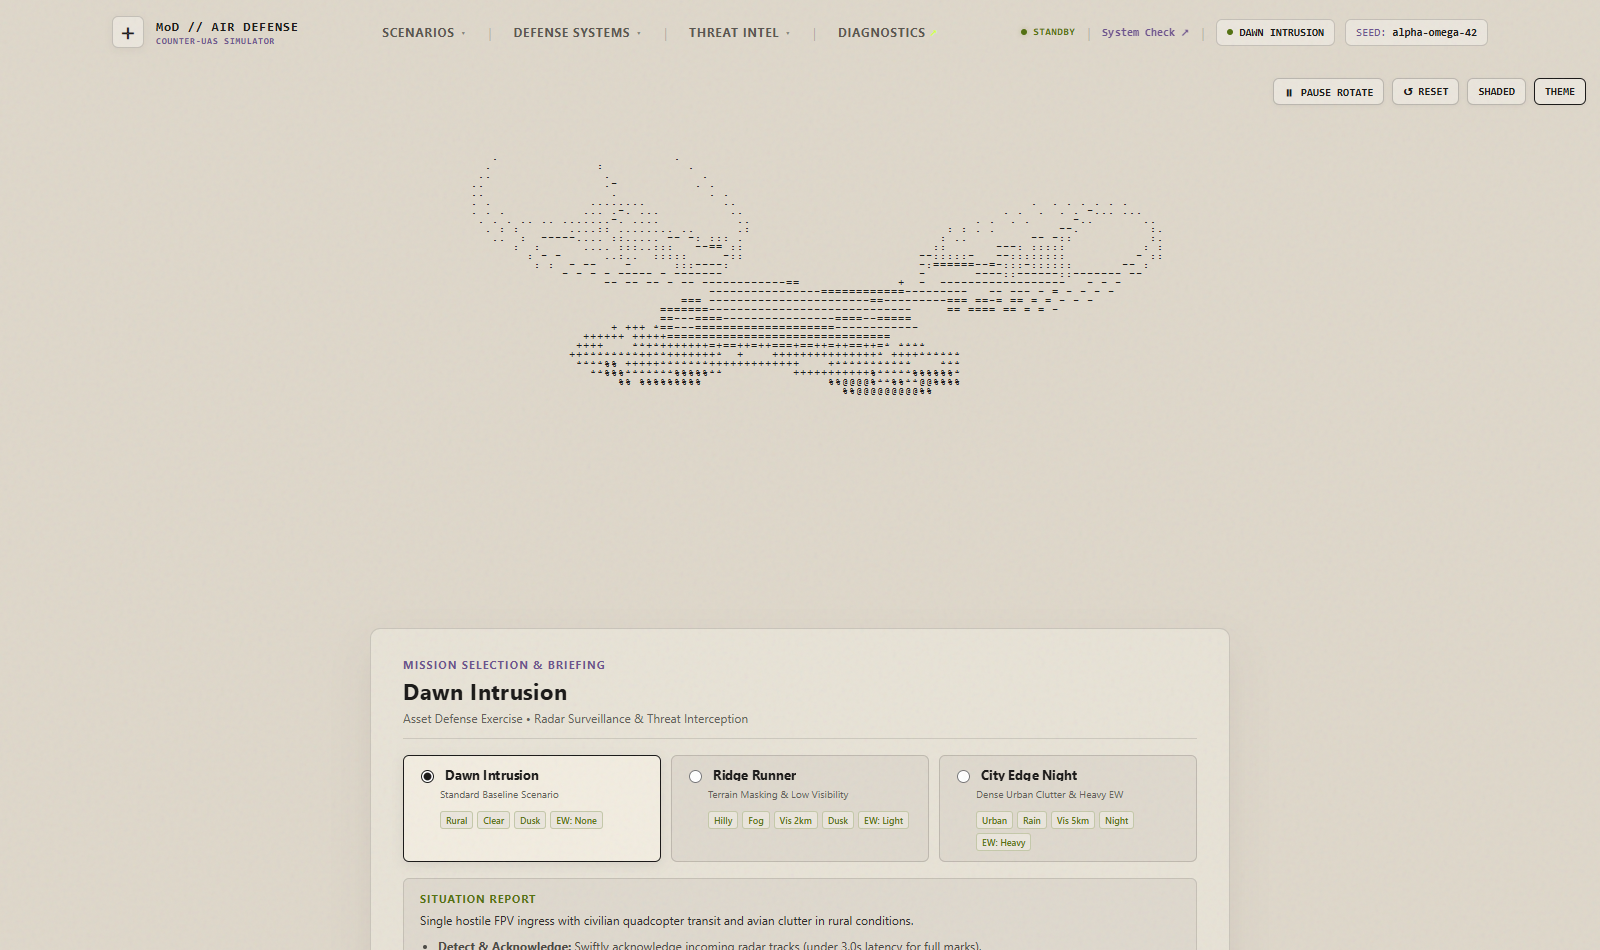
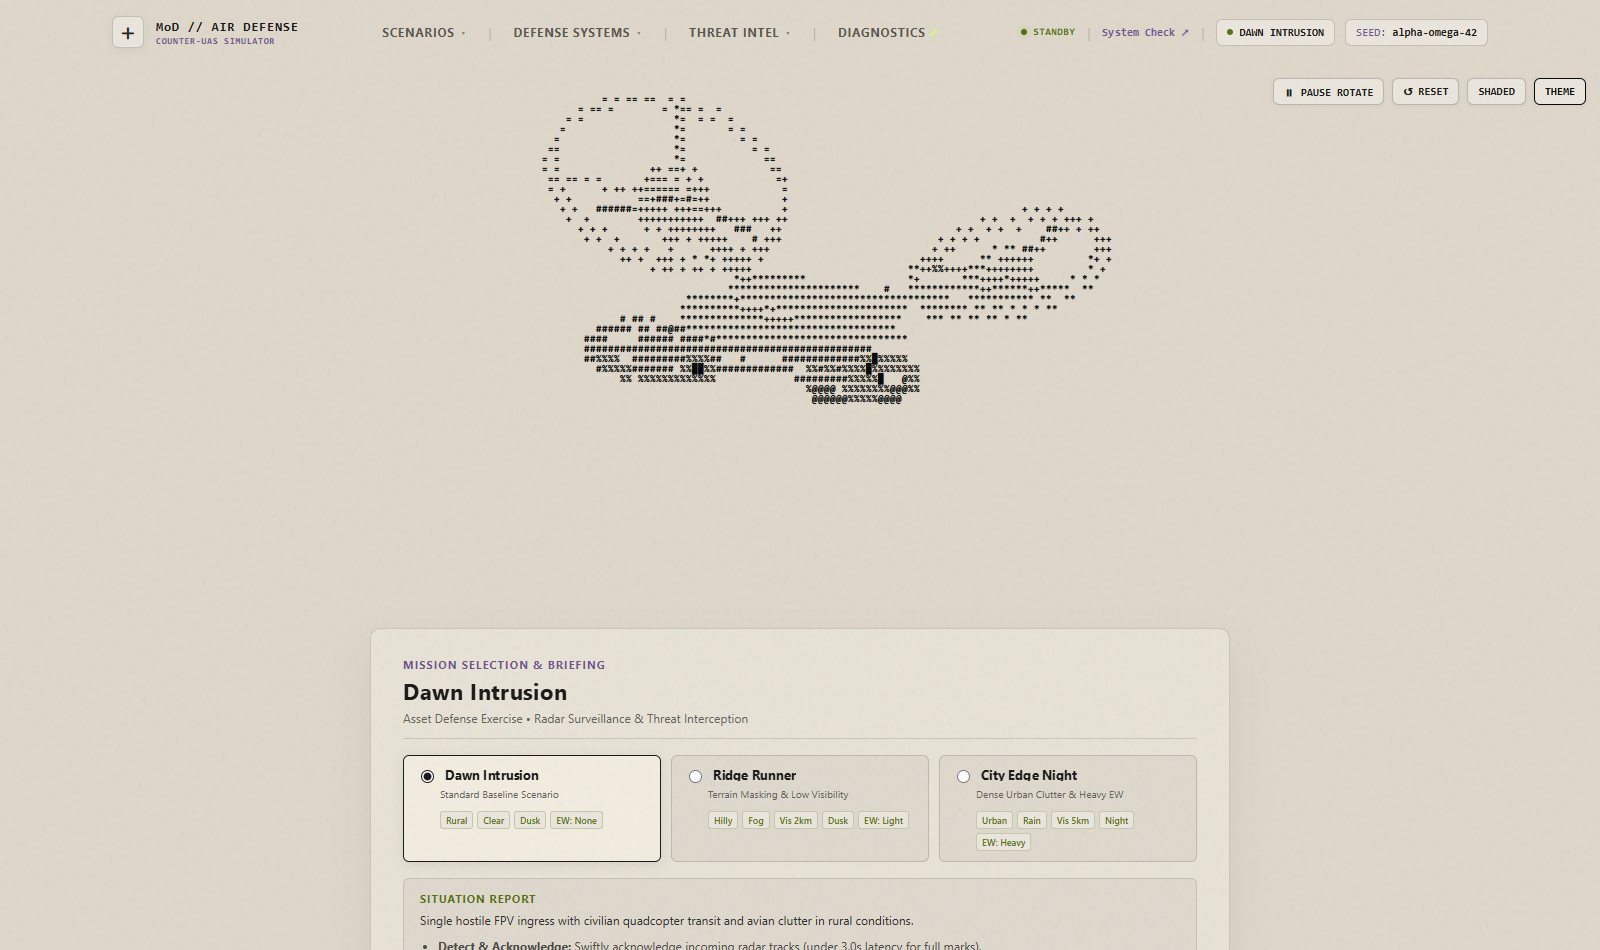
fix(ui): increase drone contrast with deep obsidian ink, high-density ascii ramp, and bold monospace font

Changed region(s): [[0.3438, 0.1526, 0.6875, 0.4274], [0.4062, 0.0916, 0.4375, 0.1221]]

diff --git a/src/app/components/DroneAsciiSimulation.tsx b/src/app/components/DroneAsciiSimulation.tsx
@@ -19,7 +19,7 @@ interface Point3D {
   kind?: 'body' | 'arm' | 'motor' | 'propeller' | 'camera' | 'antenna';
 }
 
-const ASCII_RAMP = '   ..:--==++**%%@@##';
+const ASCII_RAMP = ' .:-=+*#%@█';
 
 // Build the procedural 3D Tactical Drone Model with Rotor Guards & Fuselage
 function generateDroneModel(): Point3D[] {
@@ -155,9 +155,9 @@ function generateDroneModel(): Point3D[] {
 export function DroneAsciiSimulation({
   className = '',
   style,
-  color = '#181716',
+  color = '#050505',
   backgroundColor = 'transparent',
-  fontSize = 9,
+  fontSize = 10,
   autoRotate = true,
   rotationSpeed = 0.012,
   enableMouseRotate = true,
@@ -288,15 +288,17 @@ export function DroneAsciiSimulation({
             // Compute lighting / character density
             let charIndex: number;
             if (wireframeOnly) {
-              charIndex = pt.kind === 'propeller' ? 9 : 5;
+              charIndex = pt.kind === 'propeller' ? 9 : 6;
             } else {
               // Depth-based shading gradient with specular highlight on rotors
-              const depthNorm = Math.max(0, Math.min(1, (z2 + 1.8) / 3.6));
-              const rampIdx = Math.floor(depthNorm * (ASCII_RAMP.length - 1));
+              // Minimum base ink is index 4 ('=') so even far-away surfaces have solid dark ink presence
+              const depthNorm = Math.max(0, Math.min(1, (z2 + 1.6) / 3.2));
+              const minInk = 4;
+              const rampIdx = minInk + Math.floor(depthNorm * (ASCII_RAMP.length - 1 - minInk));
               charIndex = pt.kind === 'propeller' ? Math.min(ASCII_RAMP.length - 1, rampIdx + 2) : rampIdx;
             }
 
-            buffer[idx] = ASCII_RAMP[charIndex] || '#';
+            buffer[idx] = ASCII_RAMP[charIndex] || '█';
           }
         }
       }
@@ -413,18 +415,18 @@ export function DroneAsciiSimulation({
         <button
           onClick={() => {
             const nextColor =
-              activeColor === '#181716'
-                ? '#8e5b5d' // Shourya Foundry Terracotta
-                : activeColor === '#8e5b5d'
-                  ? '#6b518c' // Tactical Lavender
-                  : activeColor === '#6b518c'
-                    ? '#4e660e' // Dark Olive
-                    : activeColor === '#4e660e'
-                      ? '#b83327' // Crimson
-                      : '#181716';
+              activeColor === '#050505'
+                ? '#381417' // Deep Dark Terracotta Ink
+                : activeColor === '#381417'
+                  ? '#0d1829' // Deep Tactical Navy Ink
+                  : activeColor === '#0d1829'
+                    ? '#241030' // Deep Obsidian Plum Ink
+                    : activeColor === '#241030'
+                      ? '#10240e' // Deep Tactical Olive Ink
+                      : '#050505';
             setActiveColor(nextColor);
           }}
-          title="Switch Color Theme (Ink / Terracotta / Lavender / Olive / Crimson)"
+          title="Switch Color Theme (Obsidian / Terracotta / Navy / Plum / Olive)"
           style={{
             backgroundColor: '#eae5dc',
             border: `1.5px solid ${activeColor}`,
@@ -447,12 +449,13 @@ export function DroneAsciiSimulation({
         style={{
           margin: 0,
           padding: '16px',
-          fontFamily: 'Courier New, monospace',
+          fontFamily: 'Consolas, "Cascadia Code", "SF Mono", Menlo, ui-monospace, monospace',
           fontSize: `${fontSize}px`,
-          lineHeight: '9px',
-          letterSpacing: '1px',
+          fontWeight: 800,
+          lineHeight: '10px',
+          letterSpacing: '0.5px',
           color: activeColor,
-          textShadow: 'none',
+          textShadow: '0 0 1px rgba(0, 0, 0, 0.45)',
           whiteSpace: 'pre',
           pointerEvents: 'none',
           textAlign: 'center',

diff --git a/src/app/components/DroneHeroSection.tsx b/src/app/components/DroneHeroSection.tsx
@@ -7,7 +7,7 @@ export function DroneHeroSection(): React.JSX.Element {
       {/* Full-Width 3D Tactical Drone ASCII Canvas Container — Seamless with page background */}
       <div style={styles.canvasWrapper}>
         <DroneAsciiSimulation
-          color="#181716"
+          color="#050505"
           backgroundColor="transparent"
           fontSize={10}
           autoRotate={true}
